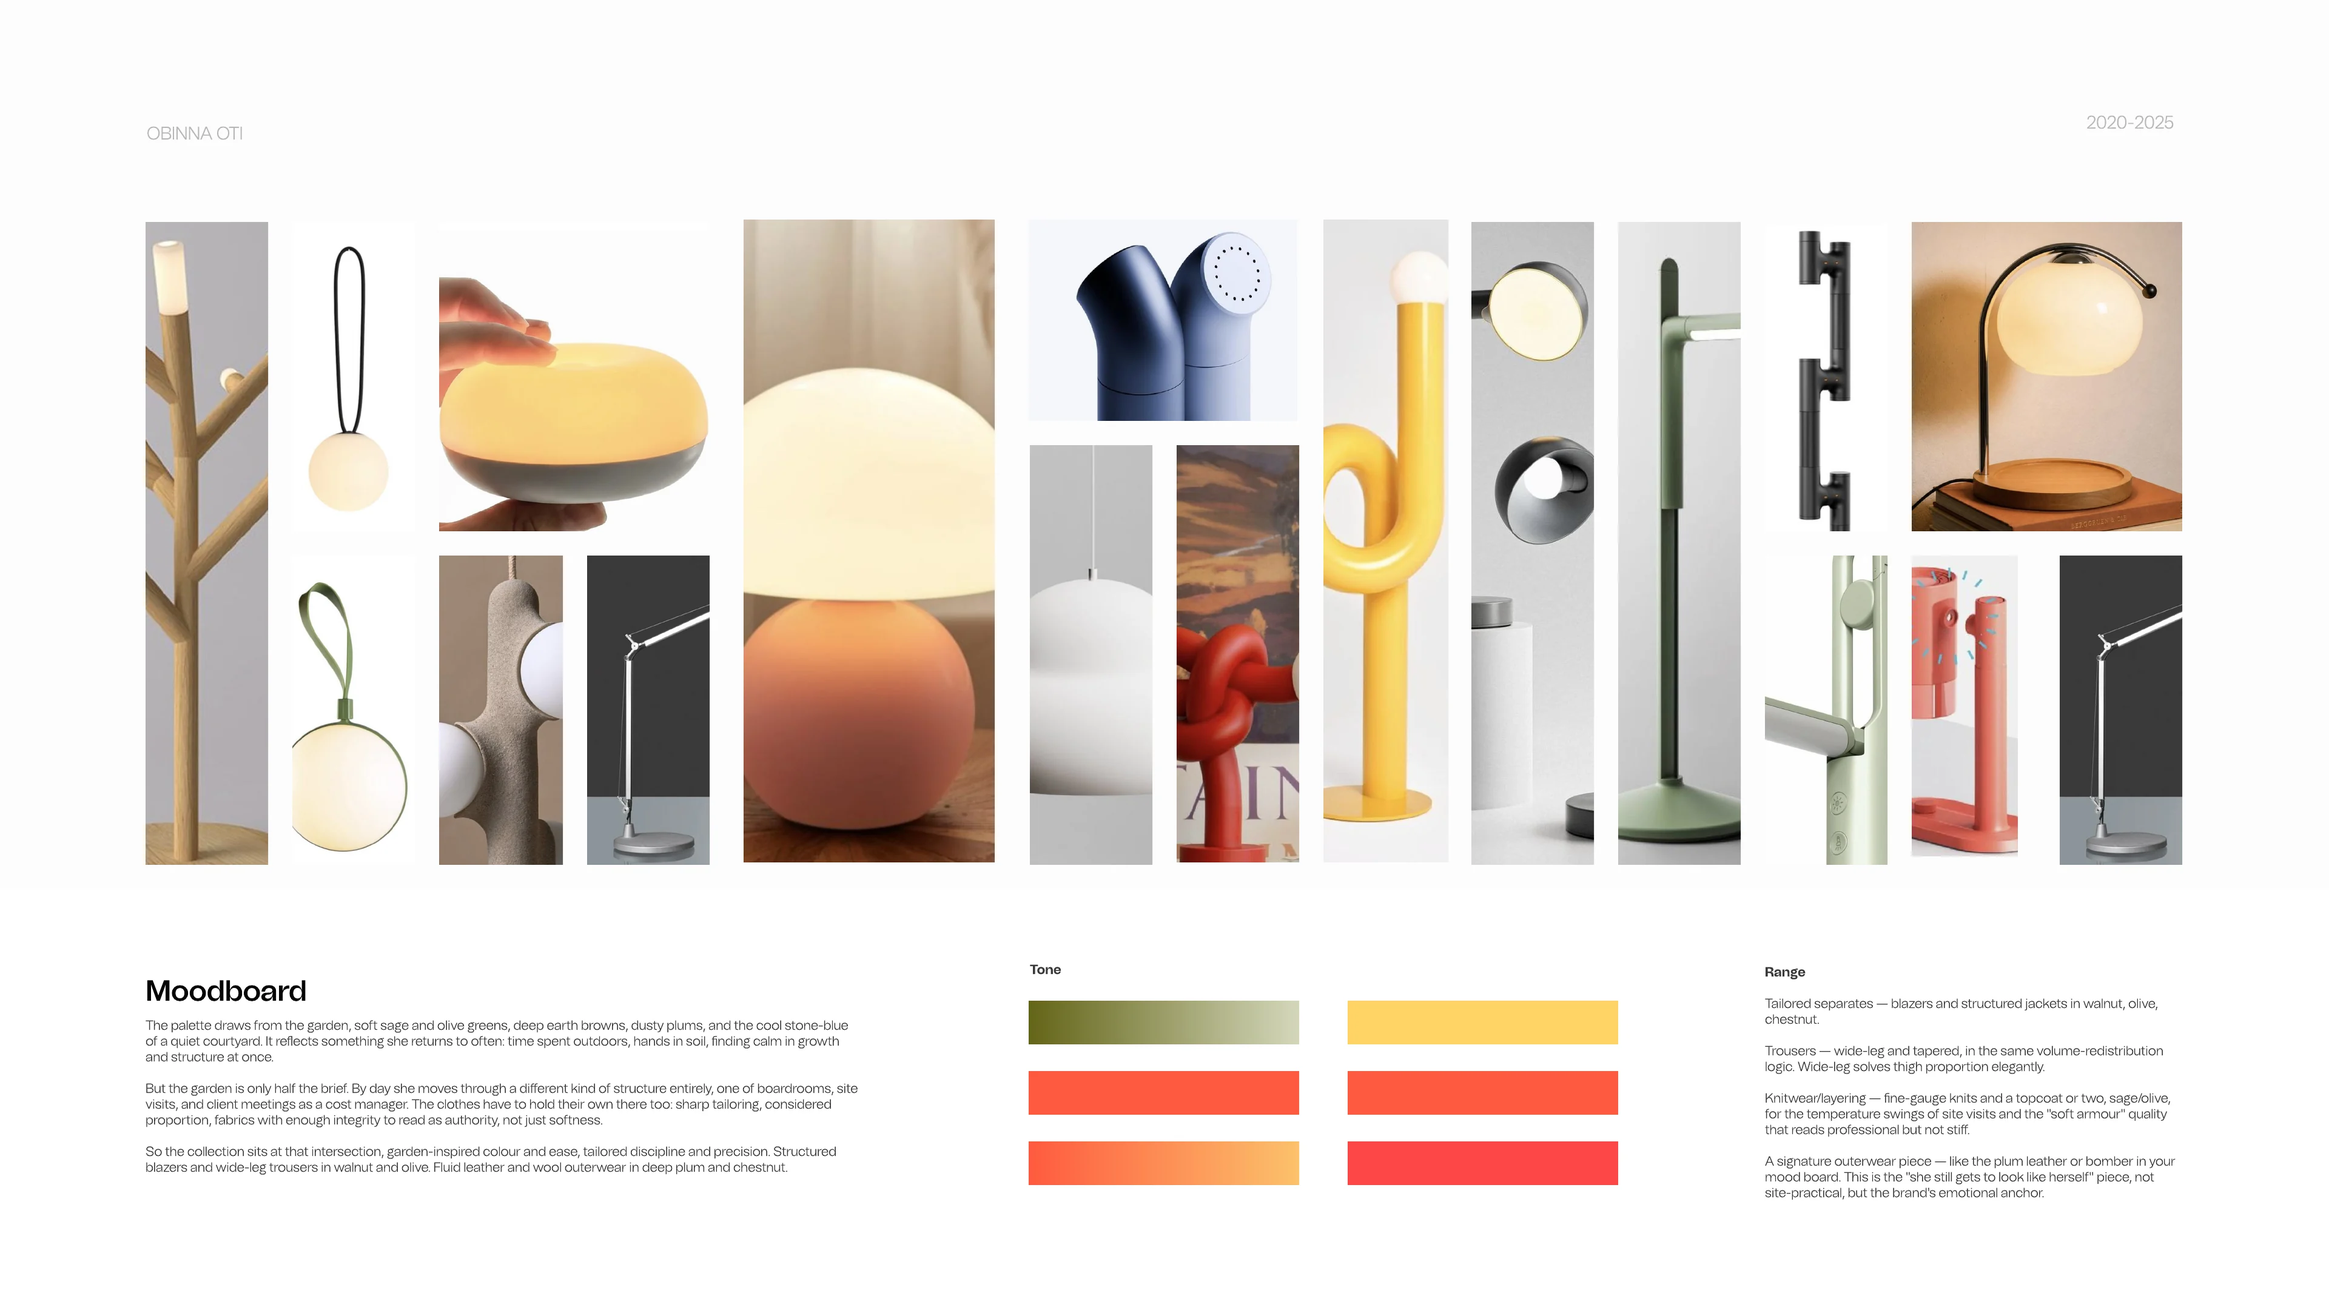
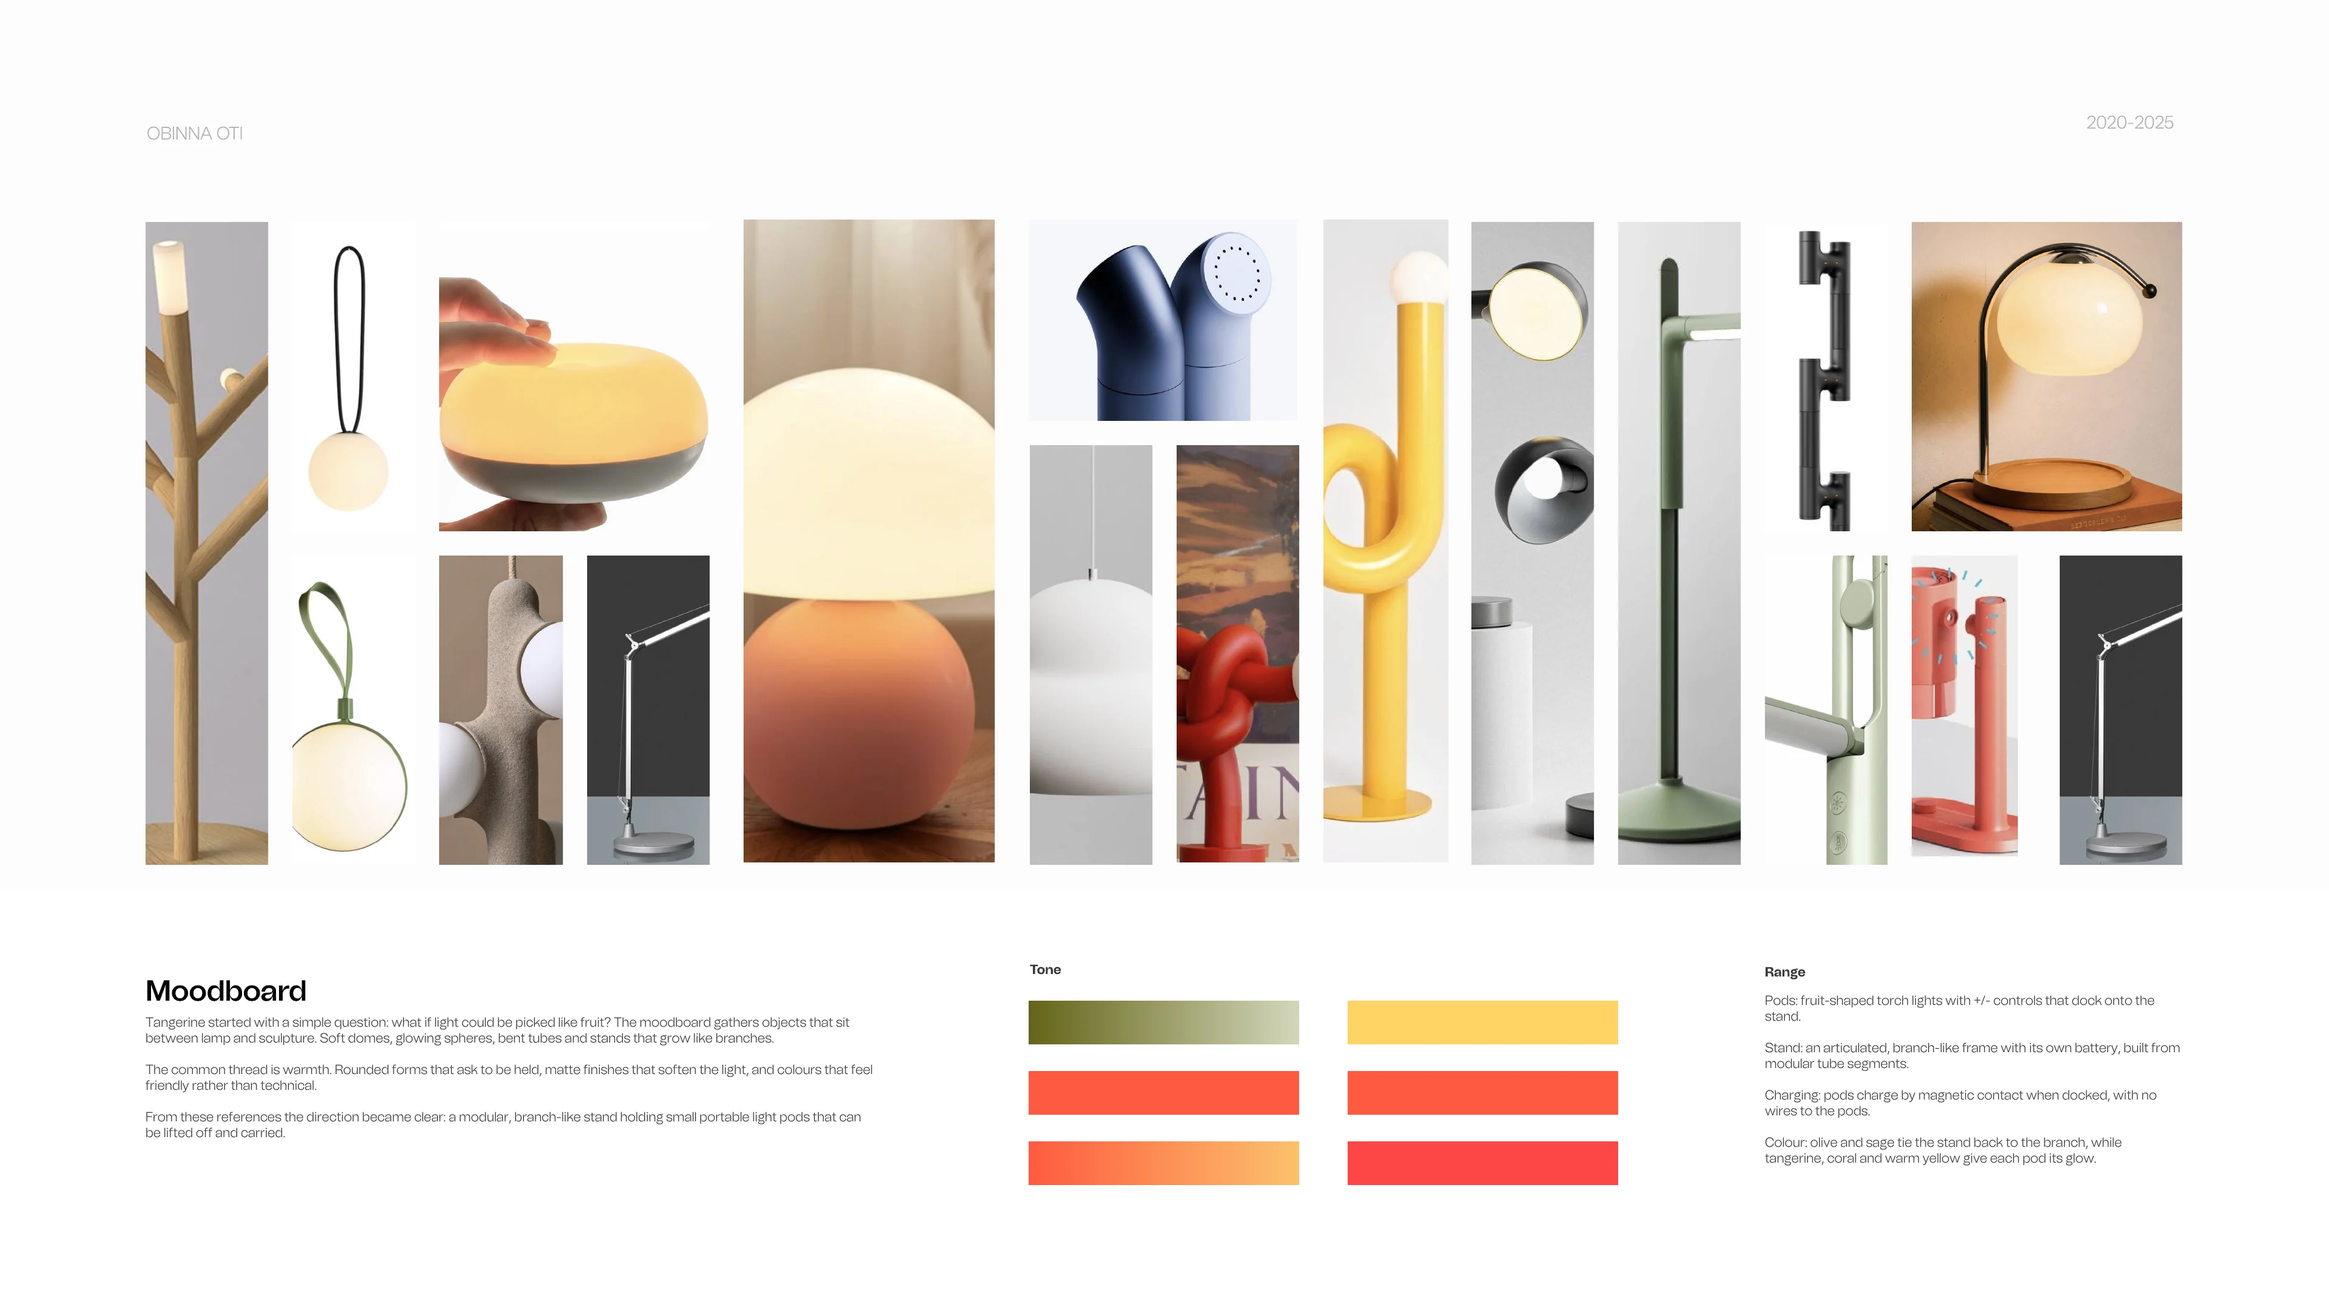
Sting Rays, Super Slides and Tangerine: pages from the updated PDFs
- Sting Rays and Super Slides: all five pages replaced with the updated
  texts (Super Slides now shows the colourways before the render).
- Tangerine: five pages instead of three, adding the CAD page and the
  stand on its own.
- Each page's description for screen readers follows its new text.

Claude-Session: https://claude.ai/code/session_01XrsNxmTzmpsovjqss1yHEC

Changed region(s): [[0.0625, 0.7755, 0.375, 0.8995], [0.75, 0.7444, 0.9375, 0.9306]]

diff --git a/projects/books.js b/projects/books.js
@@ -25,23 +25,23 @@ window.BOOKS =
     "frames": [
       {
         "src": "assets/images/sting-rays-1-moodboard.webp",
-        "alt": "Sting Rays, moodboard: reference images of sculpted sports eyewear and manta rays, with a tone palette of olive, coral, orange and blues. Moodboard: inspired by the fluid movement and distinctive anatomy of stingrays, the design explores the intersection of marine biology and futuristic eyewear."
+        "alt": "Sting Rays, moodboard: reference images of sculpted sports eyewear and manta rays, with tone swatches in aqua, ivory, blues, coral and green. Inspired by the fluid movement and distinctive anatomy of stingrays, the design explores the intersection of marine biology and futuristic eyewear. The stingray's sweeping wings, streamlined body and elongated tail inform a sculptural silhouette that balances organic movement with aerodynamic precision. Tone: a contrast between aquatic depth and vibrant marine energy; electric blues, iridescent greens and warm metallic golds, balanced by softer ivory and muted olive."
       },
       {
         "src": "assets/images/sting-rays-2-sketching.webp",
-        "alt": "Sting Rays, concept sketching: line studies of a stingray beside a red geometric construction of its form, front-view lens studies, temple sketches, and side and perspective sketches of the frame. Concept Sketching: initial sketches explore the distinctive silhouette of stingrays, focusing on their sweeping wings, tapered tails and fluid body contours. Process: the design process begins by studying the stingray's anatomy and translating its defining features into functional eyewear elements."
+        "alt": "Sting Rays, concept sketching: a stingray outline abstracted into construction lines, its wing and tail geometry carried into the frame, front frame variations, temple profiles, side profile development and three-quarter refinement. Process: initial sketches explore the stingray's sweeping wings, tapered tail and fluid body; simplified line studies abstract them into sharp, aerodynamic geometries. The wings inspire the frame's extended contours and the tail the streamlined temples."
       },
       {
         "src": "assets/images/sting-rays-3-cad.webp",
-        "alt": "Sting Rays, CAD (Rhino subdivision modelling): wireframe views of the frame and its parts: the left hand and hinge, the right hand and hinge, the eye frame and bridge, and the detachable lens."
+        "alt": "Sting Rays, CAD (Rhino subdivision modelling): wireframe views of the frame and its four parts, the left hand and hinge, the right hand and hinge, the eye frame and bridge, and the detachable lens. Process: the refined sketches were rebuilt in Rhino using SubD, keeping the soft, continuous surfaces while controlling every edge. The temples sweep back like the ray's wings and taper towards the ear like its tail; the hinges sit inside the curve of the frame, and the lens detaches so tints can be swapped."
       },
       {
         "src": "assets/images/sting-rays-4-visualisation.webp",
-        "alt": "Sting Rays, visualisation: a close render of the cobalt frame with its amber lining and gold hinge, beside the frame in three colourways. Visualisation: building on the technical sketches, the selected concept is developed into a detailed 3D model, transforming the initial two-dimensional explorations into a fully realised product. This stage focuses on translating the stingray's distinctive anatomy into a cohesive eyewear design, balancing expressive, organic forms with structural precision and functional considerations."
+        "alt": "Sting Rays, visualisation: a close render of the cobalt frame with its amber lining and gold hinge on black, beside the frame in three colourways. Building on the technical sketches, the selected concept is developed into a detailed 3D model, balancing expressive, organic forms with structural precision."
       },
       {
         "src": "assets/images/sting-rays-5-detail.webp",
-        "alt": "Sting Rays, visualisation: two close renders of the cobalt frame, one showing the metal hinge and one the gold hinge inside the amber lining. Visualisation: through careful surface modelling, the sweeping contours, tapered extensions and sculptural transitions are refined to create a continuous visual flow across the frame."
+        "alt": "Sting Rays, visualisation: a close render of the cobalt frame and its gold hinge on black. Through careful surface modelling, the sweeping contours and sculptural transitions are refined into one continuous flow; close-ups focus on the hinge, where the gold accent sits inside the temple."
       }
     ]
   },
@@ -56,23 +56,23 @@ window.BOOKS =
     "frames": [
       {
         "src": "assets/images/super-slides-1-moodboard.webp",
-        "alt": "Super Slides, moodboard: reference images of sculpted foam footwear and soft textures, with a tone palette of sage, cream, coral, blue and lavender. Moodboard: exploring the intersection of sculptural form, layered cushioning and contemporary comfort, this moodboard establishes the visual and material direction for a soft double-foam slide concept."
+        "alt": "Super Slides, moodboard: reference images of sculpted foam footwear and soft textures, with tone swatches in sage, ivory, powder blue, coral and periwinkle. Exploring the intersection of sculptural form, layered cushioning and contemporary comfort, this moodboard sets the visual and material direction for a soft double-foam slide: organic contours, fluid transitions and exaggerated volumes, with a dual-density foam construction. Tone: muted sage green, warm ivory and powder blue, with vibrant coral, periwinkle and cool lavender."
       },
       {
         "src": "assets/images/super-slides-2-sketching.webp",
-        "alt": "Super Slides, concept sketching: side-view sketches of slide shapes and soles, a thick sole split into two and recombined, and the final double-sole concept. Process: the design process focused on refining the slide's overall shape while developing the idea of a double-sole construction. Starting with a thick, exaggerated sole, I explored splitting it into two individual layers, then superimposing and recombining them to create a more interesting silhouette. The result is the concept of a Super Slide: two layers of cushioning working together to create extra comfort, with the layered construction becoming the defining feature of the design."
+        "alt": "Super Slides, concept sketching: standard slide shapes with gripped soles, a thick sole split into two and recombined, and the final double-sole concept. Process: the sketches explore slide shapes, grip patterns and outsole shapes, then split a thick, exaggerated sole into two layers and recombine them. The result is the Super Slide: two layers of cushioning working together, with the layered construction as the defining feature."
       },
       {
         "src": "assets/images/super-slides-3-cad.webp",
-        "alt": "Super Slides, CAD: wireframe views of the slide and its two sole layers, modelled in Rhino with SubD."
+        "alt": "Super Slides, CAD: wireframe views of the outsole grip pattern from underneath and above, a side elevation with a foot for scale showing the upper on the double sole, and the lower sole layer separated. Process: the concept was developed in Rhino using SubD, with the upper and the two sole layers modelled as separate components and refined so they come together seamlessly."
       },
       {
-        "src": "assets/images/super-slides-4-render.webp",
-        "alt": "Super Slides: a close render of the slide in bone. Process: the final CAD model was brought into KeyShot to explore materials, colours and lighting, bringing the Super Slides concept to life through realistic 3D visualisation. I experimented with dramatic, high-contrast lighting to exaggerate the sculptural curves, flowing surfaces and layered sole construction."
+        "src": "assets/images/super-slides-4-colourways.webp",
+        "alt": "Super Slides, visualisation: the slide in bone, the slide in sage, olive and navy, and a close-up of the rippled sole, on black. Different colourways and soft matte finishes bring out the foam-like material; dark backgrounds and controlled lighting let the form and the double-sole silhouette stand out."
       },
       {
-        "src": "assets/images/super-slides-5-colourways.webp",
-        "alt": "Super Slides: the slide in bone, the slide in sage, olive and lavender, and a close-up of the rippled sole. Process: different colourways and soft matte finishes were explored to highlight the foam-like material qualities, while close-up renders focus on the outsole detailing and subtle surface textures."
+        "src": "assets/images/super-slides-5-render.webp",
+        "alt": "Super Slides, visualisation: a close render of the slide in bone on black. The final CAD model was taken into KeyShot; dramatic, high-contrast lighting exaggerates the sculptural curves and the layered sole."
       }
     ]
   },
@@ -88,15 +88,23 @@ window.BOOKS =
     "frames": [
       {
         "src": "assets/images/tangerine-1-moodboard.webp",
-        "alt": "Tangerine, moodboard: lamps and lights in wood, glass and coloured metal, from a branching wooden stand and hanging globe lights to a mushroom lamp and a yellow tube light, beside the tone swatches."
+        "alt": "Tangerine, moodboard: lamps and lights in wood, glass and coloured metal, from a branching stand and hanging globes to domed lamps and bent tube lights, with tone swatches in olive, sage, tangerine, coral and yellow. Tangerine started with a simple question: what if light could be picked like fruit? The moodboard gathers objects that sit between lamp and sculpture: soft domes, glowing spheres, bent tubes and stands that grow like branches. The direction: a modular, branch-like stand holding small portable light pods that can be lifted off and carried. Range: fruit-shaped torch pods with +/- controls that dock onto the stand and charge by magnetic contact; olive and sage for the stand, tangerine, coral and warm yellow for the pods."
       },
       {
         "src": "assets/images/tangerine-2-sketching.webp",
-        "alt": "Tangerine, concept sketching: hands holding a fruit-shaped torch light, studies of the light in section, and branching modular stands it plugs into."
+        "alt": "Tangerine, brief and sketching: hands holding a fruit-shaped torch light, studies of the pod, and branching modular stands it plugs into. Brief: design a lamp that is more than a fixed light; a stand with detachable light pods, each shaped like a small fruit, that work as hand-held torches and return to the stand to charge. The stand should feel organic, not mechanical, like a branch holding fruit, and be modular and easy to assemble."
       },
       {
-        "src": "assets/images/tangerine-3-render.webp",
-        "alt": "Tangerine, renders: the light in purple and white on black, beside the three colourways, purple, orange and green, and close-ups of their two-button tops."
+        "src": "assets/images/tangerine-3-cad.webp",
+        "alt": "Tangerine, CAD sketching: line drawings of the pod in front, side and section views, and the stand built from bent tube segments, labelled detachable pod, pod docked on top, tube collar joint, docking pocket, pod in side pocket and stand base. Process: developed in Rhino using SubD; pockets in the lower and top tubes let a pod dock and charge by magnetic contact, and the wide base keeps the stand stable with both pods attached."
+      },
+      {
+        "src": "assets/images/tangerine-4-colourways.webp",
+        "alt": "Tangerine, visualisation: the pod in lilac on black, the pods in lilac, tangerine and soft green, and a close-up of the lilac pod's controls and cap. Each pod was tested across a family of colourways; soft matte finishes make them friendly and tactile, and a white diffuser cap stays constant so they read as one product."
+      },
+      {
+        "src": "assets/images/tangerine-5-stand.webp",
+        "alt": "Tangerine, visualisation: the stand rendered on its own in lilac and in tangerine against a clean background, its tube segments reading as one continuous branch, with the joints, pockets and base as quiet details."
       }
     ]
   },

diff --git a/README.md b/README.md
@@ -147,22 +147,22 @@ Current books:
 | Book | Pages |
 |---|---|
 | 01 Sting Rays | cover · moodboard · concept sketching · CAD · visualisation · visualisation detail · back cover |
-| 02 Super Slides | cover · moodboard · concept sketching · CAD · render · colourways · back cover |
-| 03 Tangerine | cover · moodboard (Frame 10) · concept sketching (Frame 12) · renders (Frame 48) · back cover |
+| 02 Super Slides | cover · moodboard · concept sketching · CAD · colourways · render · back cover |
+| 03 Tangerine | cover · moodboard · brief and sketching · CAD · colourways · the stand · back cover |
 | 04 Vivonne Cabin | cover · site and proposal · option 01 (gable): 3D view, plans and elevations, section, details, schedules, compliance blow-out · option 02 (split skillion): 3D view, plans and elevations, section · back cover |
 | 05 Smith Residence | cover · title page · site plan (A01) · project overview · floor plan (A03) · kitchen blow-out (A04) · elevations (A05) · section and detail (A06) · back cover |
 | 06 Blackwood Cafe | cover · one blank spread (its pages aren't in yet) · back cover |
 
 ### Spreads made from your Figma frames
 
-Every spread inside the books is one of your Figma frames: the frame (1920 × 1080) is rendered from your PDF at 2×, 3840 × 2160, and split down the middle, so the spread looks exactly like the design, text included. Sting Rays and Super Slides follow your booklets page for page, and Vivonne Cabin follows its pages in your 2026 portfolio PDF (those pages are already 1920 × 1080, so they are rendered at 144 dpi with no crop):
+Every spread inside the books is one of your Figma frames: the frame (1920 × 1080) is rendered from your PDF at 2×, 3840 × 2160, and split down the middle, so the spread looks exactly like the design, text included. Sting Rays, Super Slides and Tangerine follow their updated portfolio PDFs page for page (1920 × 1080, rendered at 144 dpi), and Vivonne Cabin follows its pages in your 2026 portfolio PDF (those pages are already 1920 × 1080, so they are rendered at 144 dpi with no crop):
 
 ```
 sting-rays-1-moodboard.webp        super-slides-1-moodboard.webp
 sting-rays-2-sketching.webp        super-slides-2-sketching.webp
 sting-rays-3-cad.webp              super-slides-3-cad.webp
-sting-rays-4-visualisation.webp    super-slides-4-render.webp
-sting-rays-5-detail.webp           super-slides-5-colourways.webp
+sting-rays-4-visualisation.webp    super-slides-4-colourways.webp
+sting-rays-5-detail.webp           super-slides-5-render.webp
 vivonne-01-site.webp              (2026 portfolio, p. 4)
 vivonne-02-option1.webp           (p. 6)
 vivonne-03-plans.webp             (p. 7)
@@ -173,9 +173,11 @@ vivonne-07-compliance.webp        (p. 11)
 vivonne-08-option2.webp           (p. 12)
 vivonne-09-option2-plans.webp     (p. 13)
 vivonne-10-option2-section.webp   (p. 14)
-tangerine-1-moodboard.webp   (Frame 10)
-tangerine-2-sketching.webp   (Frame 12)
-tangerine-3-render.webp      (Frame 48)
+tangerine-1-moodboard.webp
+tangerine-2-sketching.webp
+tangerine-3-cad.webp
+tangerine-4-colourways.webp
+tangerine-5-stand.webp
 smith-residence-1-title.webp        (draft portfolio, p. 3)
 smith-residence-2-site-plan.webp    (p. 4)
 smith-residence-3-overview.webp     (p. 5)
